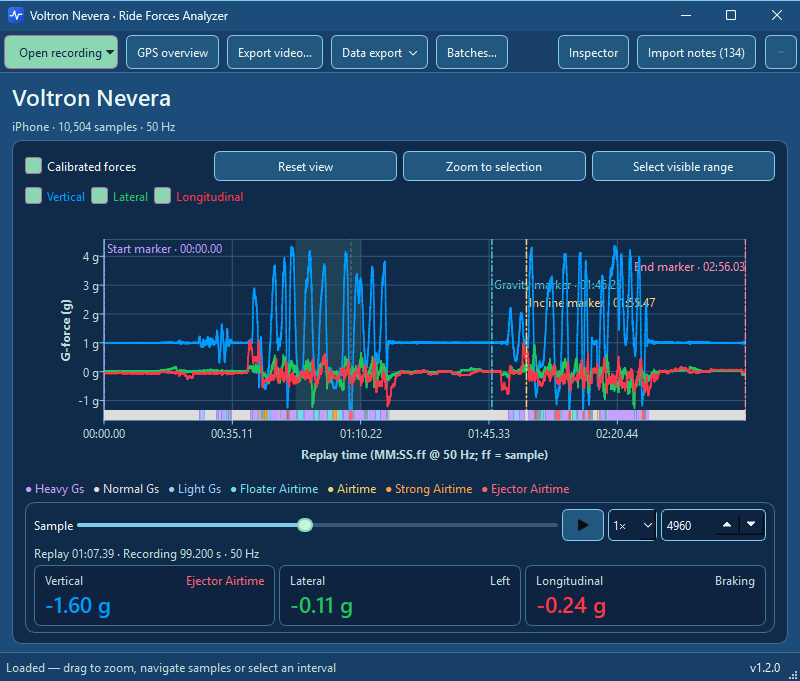
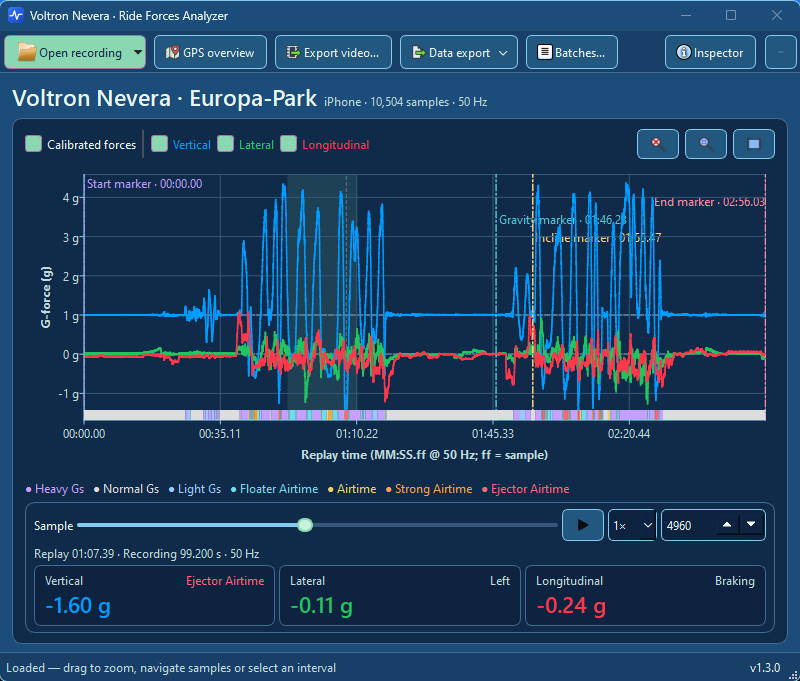
:package: build(packaging): prepare stable 1.3.0 release
Why:
Publish the current application as stable version 1.3.0.

Changes:
- Align application metadata, lockfile and download documentation with 1.3.0.
- Refresh native reference screenshots and describe current export and UI behavior.
- Remove obsolete upgrade instructions from the reusable release introduction.

Changed region(s): [[0.0, 0.1233, 1.0, 0.6476], [0.0, 0.0308, 0.9375, 0.1233], [0.9688, 0.0, 1.0, 0.0308]]

diff --git a/src/ride_forces_analyzer/__init__.py b/src/ride_forces_analyzer/__init__.py
@@ -4,4 +4,4 @@ Copyright (c) 2026 Björn Rudner.
 SPDX-License-Identifier: GPL-3.0-or-later
 """
 
-__version__ = "1.2.0"
+__version__ = "1.3.0"

diff --git a/docs/images/README.md b/docs/images/README.md
@@ -15,7 +15,7 @@ Bundled POV photographs are listed in the
 ## Image content and reproduction
 
 All images use the actual application or production renderer, in English.
-Workspace and appearance screenshots show version 1.2.0.
+Workspace and appearance screenshots show version 1.3.0.
 Checkerboards illustrate transparency and are not part of exported videos.
 HUD placement views are enlarged to illustrate a 4K editing timeline; its video
 export retains the native 1920×1080 or 1080×1920 resolution.
@@ -25,7 +25,7 @@ Source hashes and exact settings are retained in the linked generated manifests.
 | ----------------------------------------------------- | -------------------------------------------------------------------------------------------------------------------------------------------------------------------------------------------------------------------------------------------------------- | ---------------------------------------- |
 | `workspace-dark.png`, `workspace-light.png`           | Voltron Nevera sample 4960, replay `01:07.39`, selection 4200–5100, 11-sample smoothing; 1600×1100 workspace.                                                                                                                                            | [Application](app-reference.json)        |
 | `voltron-gps-overview.png`                            | Voltron Nevera GPS dialog, 850×650, English, full recorded route with first/last markers and an explicitly loaded OpenStreetMap background. Map details may change over time.                                                                            | [GPS](gps-reference.json)                |
-| `export-preview.png`                                  | Same Voltron sample and smoothing; 1500×1000 assistant, Flow Ribbon at the bottom, Full frame, 3840×2160 landscape transparent output, 50 fps, 12-second window.                                                                                         | [Application](app-reference.json)        |
+| `export-preview.png`                                  | Voltron sample 6853, replay `01:45.32` (60% of markers 1571–10374), 11-sample smoothing; 1500×1000 assistant, Flow Ribbon bottom, Full frame, 3840×2160 landscape transparent output, 50 fps, 12-second window.                                          | [Application](app-reference.json)        |
 | `export-preview-pov.png`                              | Voltron Nevera preview sample 6853, replay `01:45.32` (60% of marker interval 1571–10374), 11-sample smoothing; same export settings as `export-preview.png`, with the bundled Toutatis POV photo.                                                       | [POV](pov-reference.json)                |
 | Voltron layout images and `voltron-export-themes.png` | All five layouts at sample 8575, replay `02:20.04` (140.08 s at 50 Hz; recording time 171.50 s), marker interval 1571–10374, 11-sample smoothing; 3840×2160 placement views and detail crops. HUD uses a 30-second window; other layouts use 12 seconds. | [Voltron Nevera](voltron-reference.json) |
 | `voltron-airtime-detail.png`                          | Voltron sample 4960, replay `01:07.39`, interval 4500–5250, 11-sample smoothing; force curves, context strip and legend.                                                                                                                                 | [README details](readme-reference.json)  |

diff --git a/docs/user/VIDEO_EXPORT.md b/docs/user/VIDEO_EXPORT.md
@@ -19,8 +19,8 @@ your original recording unchanged, and processing works offline after setup.
 
 ## 1. Choose the part of the ride
 
-Click a point in the chart that you want to see in the preview, then click
-**Export video…**. The assistant opens with that moment and your current smoothing.
+Click **Export video…**. The assistant captures your current analysis and smoothing;
+its setup preview uses the sample 60% of the way through the selected export range.
 
 Choose **Range** to decide how much of the ride to export:
 
@@ -112,13 +112,18 @@ depends on calibration and smoothing; they are not a measurement of what a rider
 
 1. If FFmpeg was not found automatically, click **Browse…** next to **FFmpeg**
    and choose its executable (`ffmpeg.exe` on Windows, `ffmpeg` on Linux/macOS).
-2. Click **Review export →**. Check the settings and estimated file size on the left
+2. Click **Review export**. Check the settings and estimated file size on the left
    and the large preview on the right. Use **Back** to change the layout or settings.
 3. Click **Export video…**, choose a destination and file name, then save.
 4. Wait for the export to finish. The progress bar counts frames passed to the
    encoder; the remaining time estimates pending frames. **Finalizing video…**
    means the encoder is finishing the file, with no duration estimate. You can
    cancel the export.
+
+During export, the large preview follows the rendered video approximately every
+two video seconds and also shows its first and last frame. The selected backdrop
+remains preview-only; these updates reuse rendered frames rather than generating
+additional ones. Returning with **Back** restores the setup preview.
 
 On Windows, the taskbar icon also shows export progress while the window is
 minimized. For batches it shows overall queue progress. The indicator disappears

diff --git a/README.md b/README.md
@@ -45,7 +45,7 @@ No Python installation is needed. The Windows Complete ZIP includes FFmpeg for
 video export; Linux and macOS need it installed separately. Windows EXE and
 Standard ZIP downloads are also available if you prefer to use your own FFmpeg.
 
-Version **1.2.0** is a stable release. Windows and macOS may display a security warning
+Version **1.3.0** is a stable release. Windows and macOS may display a security warning
 when you first open the app.
 Follow the [installation guide](docs/user/INSTALLATION.md) for download
 verification, Linux prerequisites and first-launch instructions.
@@ -158,9 +158,9 @@ HUD always uses Full frame. [Compare export areas](docs/user/EXPORT_LAYOUTS.md#e
 Export the whole recording, its marker interval or your
 selected section. Choose the overlay language independently of the application.
 
-![Export assistant showing layout thumbnails, Export area and Position choices, output dimensions and a Flow Ribbon preview with Ejector Airtime](docs/images/export-preview.png)
+![Export assistant showing layout thumbnails, Export area and Position choices, output dimensions and a Flow Ribbon preview at 60% of the export interval](docs/images/export-preview.png)
 
-*Preview the selected chart moment before rendering. The checkerboard indicates transparency and is not part of the video.*
+*Preview a sample at 60% of the selected export interval before rendering. The checkerboard indicates transparency and is not part of the video.*
 
 ![Additional export preview showing a Voltron Nevera Flow Ribbon overlay over the bundled Toutatis POV photo](docs/images/export-preview-pov.png)
 

diff --git a/docs/user/EXPORT_BATCHES.md b/docs/user/EXPORT_BATCHES.md
@@ -51,14 +51,20 @@ can share a batch, as can Full-frame and Content-area exports.
 Each job keeps its own output size. **Remove selected jobs** saves the removal immediately.
 You can manage saved batches without opening a recording first.
 
+**Add recordings × presets…** is available only after selecting a batch and at
+least one saved preset, and while no preparation or export is running.
+
 ## Run the queue and find the results
 
 1. Check the **FFmpeg** field; use **Browse…** if the executable was not found.
-2. Select the batches you want and click **Run selected batches…**, or choose
-   **Run ALL saved batches…**.
+2. Select the batches you want and click **Run selected…**, or choose **Run all…**
+   to export every saved batch. Both commands include all jobs in those batches;
+   marked job rows do not restrict the run. Tooltips explain the difference.
 3. Choose an output folder and follow the two progress bars.
 
-**Overall batch** gives every job an equal share, regardless of video length.
+**Overall batch** weights jobs by their planned output frame counts across the
+selected batches, including each job's interval and export frame rate. A failed
+job settles its planned share; a source that cannot be read has no known frame budget.
 **Current export** shows the frames prepared for the current video and resets
 when the next job starts. The remaining time estimates those pending frames.
 Afterward, **Finalizing video…** means the encoder is still finishing the file;

diff --git a/docs/architecture/06_runtime_view.md b/docs/architecture/06_runtime_view.md
@@ -207,6 +207,11 @@ preference selects serial generation or a bounded thread pool with independent
 renderers. Ordered prefetch preserves frame order. NVIDIA Vulkan/NVENC is used
 only after a successful probe; CPU remains the fallback.
 
+For single-video exports, an optional callback forwards already rendered RGBA
+regions at approximately two-second video intervals, including the first and last
+frame. Preview composition applies the selected display-only backdrop in the worker;
+Qt signals deliver the resulting image to the dialog without a second render.
+
 Cancellation joins active renders, cancels queued work and discards incomplete
 output. Successful encoding publishes a new file exclusively or atomically replaces
 an existing video after save-dialog confirmation. The user aligns the
@@ -236,6 +241,10 @@ sequenceDiagram
 ```
 
 Videos run sequentially; their frames use the local render-job preference.
+Before encoding, the queue reads each distinct source to calculate per-job frame
+budgets from saved inclusive bounds, source sample rates and export frame rates.
+Overall dialog/taskbar progress uses those frame weights; settled failed jobs consume
+their planned share, while unreadable sources have no known budget.
 Each job replays its saved export area through the shared geometry/encoding path,
 independently of current assistant settings and later preset edits.
 Per-job failures allow later jobs to continue. Cancellation skips pending jobs and

diff --git a/docs/user/EXPLORER.md b/docs/user/EXPLORER.md
@@ -90,6 +90,12 @@ the export assistant pauses playback. Closing the window stops it.
 Zoom changes the visible time interval; the force scale stays fixed. A click
 selects a moment, while a drag changes the view.
 
+The right-aligned view controls use icons with tooltips: a magnifier with a red X
+for **Reset view**, a magnifier with a blue selection for **Zoom to selection**,
+and blue selection brackets for **Select visible range**. Curve visibility sits
+beside **Calibrated forces**. Calibrated plots include dashed reference lines at
+0 g and 1 g when those values are within the displayed scale; raw plots do not.
+
 ## Choose an interval
 
 The inspector's **SELECTION** section contains **From sample** and **To sample**.
@@ -121,6 +127,10 @@ active display mode and smoothing.
 information is omitted. **Technical details** provides source information,
 processing settings and current-sample details; **Import notes** opens diagnostic
 information when you need to understand unavailable data.
+
+The heading also shows the park beside the ride name when available. Device,
+sample count and sample rate share the same line. The arrow on **Technical details**
+points down when collapsed and up when expanded.
 
 Replay time is relative to the recording's start marker. At an integer sample
 rate, `MM:SS.ff` ends with a sample counter, not hundredths: at 50 samples per

diff --git a/docs/implementation/VIDEO_EXPORT.md b/docs/implementation/VIDEO_EXPORT.md
@@ -57,7 +57,7 @@ the [HUD demo](https://youtu.be/JGcNPKoKU1Q) uses the supplied
 
 ### Assistant and previews
 
-Two-step modal assistant captures analysis, graph cursor and smoothing on opening,
+Two-step modal assistant captures analysis and smoothing on opening,
 independently of later workspace changes. Both steps use a compact ride heading,
 labeled left controls/summary and large right preview. Step one groups export,
 force-display and encoding controls with presets and compact layout thumbnails.
@@ -76,7 +76,7 @@ It retains the selected preview-only background and displays the current export
 frame number. No additional frames are rendered and preview backgrounds are never
 encoded. Returning to setup restores the selected static preview.
 
-- All thumbnails and the main preview use production RGBA at the exact source sample,
+- Setup thumbnails and the main preview use production RGBA at the exact source sample,
   independently of video-frame quantization. Fit complete output within 960×540 /
   540×960 without cropping/stretching; HUD gallery entries always use Full frame.
 - Settings/background changes use a debounced worker; only its latest revision applies.

diff --git a/docs/implementation/RAW_EXPLORER.md b/docs/implementation/RAW_EXPLORER.md
@@ -172,6 +172,13 @@ immediately; Save persists the choices and Cancel restores the previous theme.
 Startup restores valid saved choices, otherwise the registered OS language (English
 fallback) and System appearance. `AppSettings` can explicitly override language.
 
+The loaded heading combines ride and optional park names, with device/sample/rate
+metadata on a shared baseline. Calibration and curve visibility occupy one row;
+the three icon-only view controls sit at its right edge with translated tooltips
+and accessible names. Calibrated plots show dashed 0 g and 1 g guides within the
+existing value range; raw views omit them. GPS status and attribution share the
+bottom action row, with Close pinned at its right edge.
+
 - Shared palette/styles cover controls, disabled/selected states, tables, lists,
   tooltips, dialogs and GPS. Charts have scheme-specific backgrounds, axes,
   force/raw colors and markers; light text/channel/marker colors meet 4.5:1

diff --git a/docs/user/EXPORT_LAYOUTS.md b/docs/user/EXPORT_LAYOUTS.md
@@ -82,10 +82,11 @@ dimensions do not guarantee a proportionally smaller video.
    size, and whether the chosen position leaves the action clear.
 7. Choose a light, dark or checkerboard preview background to check visibility.
 
-The thumbnails and large preview show the sample at 60% of the selected export
-range, rounded to a sample, rather than playing the video. Changing the range
+Before export, the thumbnails and large preview show the sample at 60% of the selected
+export range, rounded to a sample. Changing the range
 recalculates that moment without moving the workspace cursor. No FFmpeg installation
-is needed to compare layouts.
+is needed to compare layouts. During export, the large preview follows already
+rendered frames approximately every two video seconds.
 
 Layouts provide preset positions and styling. The assistant does not offer dragging,
 resizing, custom fonts or custom colors. You can choose the layout, export area,

diff --git a/docs/development/RELEASE_NOTES.md b/docs/development/RELEASE_NOTES.md
@@ -7,8 +7,3 @@ Download the package for your system from the assets below.
 - [Known limits and planned features](https://github.com/{{REPOSITORY}}/blob/{{TAG}}/docs/ROADMAP.md)
 - [Licenses](https://github.com/{{REPOSITORY}}/blob/{{TAG}}/README.md#license)
 - [Packaging and redistribution limits](https://github.com/{{REPOSITORY}}/blob/{{TAG}}/docs/development/RELEASE.md)
-
-## Upgrade notes
-
-Four-panel column supports landscape only. Portrait presets or queued jobs for
-this layout must be recreated with landscape settings.

diff --git a/docs/user/INSTALLATION.md b/docs/user/INSTALLATION.md
@@ -3,7 +3,7 @@
 Download your platform's package and checksum file from
 [GitHub Releases](https://github.com/rudnerbjoern/ride-forces-analyzer/releases).
 The application includes Python; no Python installation or setup script is needed.
-In commands below, replace `VERSION` with the downloaded version, such as `1.2.0`.
+In commands below, replace `VERSION` with the downloaded version, such as `1.3.0`.
 
 ## Windows 10/11 x64
 
